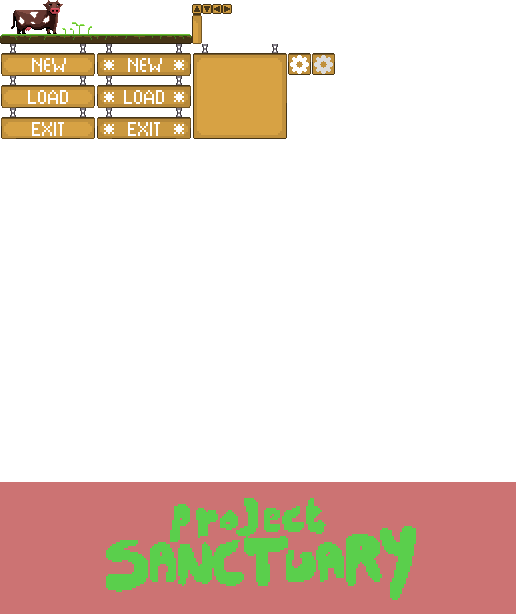
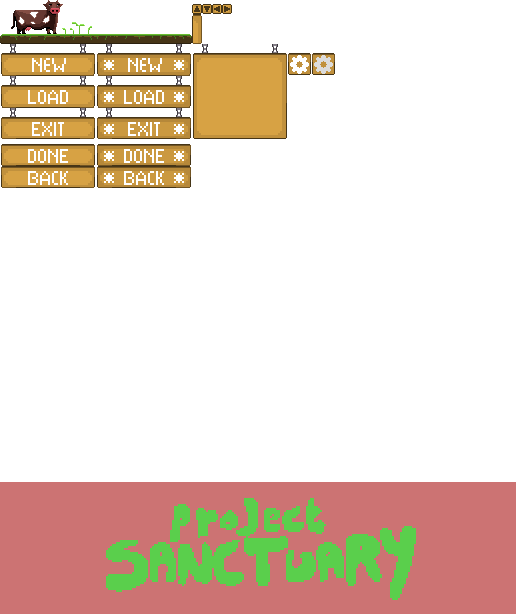
Add done and back buttons

Changed region(s): [[0.0, 0.2166, 0.3721, 0.3094]]

diff --git a/src/Application/Menus/CharacterCreationMenu.cs b/src/Application/Menus/CharacterCreationMenu.cs
@@ -7,7 +7,7 @@ namespace Application.Menus
 {
     public class CharacterCreationMenu : Menu
     {
-        private Texture2D _background;
+        private readonly Texture2D _background;
 
         public CharacterCreationMenu()
         {
